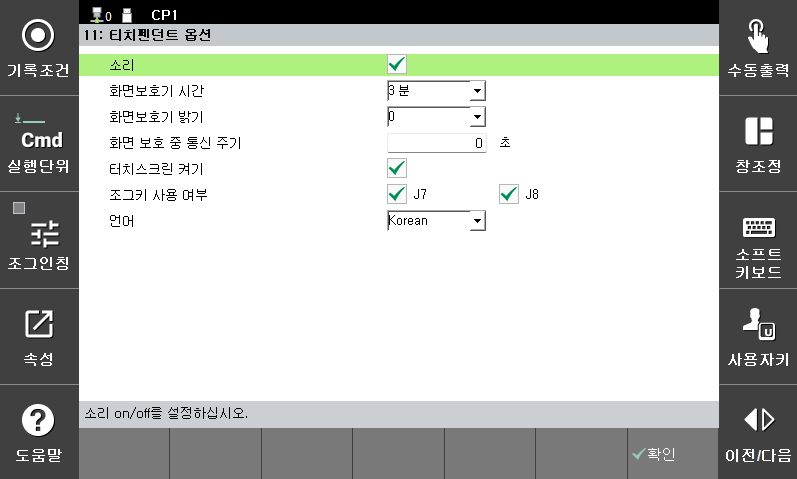
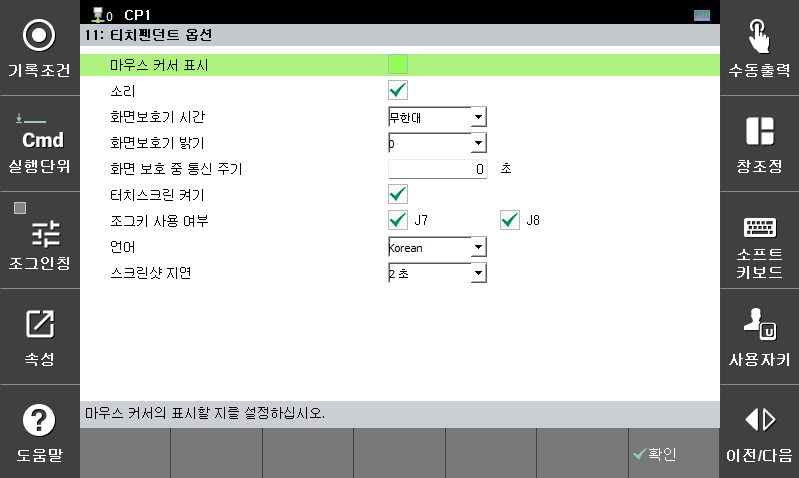
[HIXM-5650] 스크린샷 동작 지연 기능 개발

diff --git a/book.md b/book.md
@@ -3290,6 +3290,14 @@ V60.26-00 부터 지원됩니다.
   <tbody>
     <tr>
       <td style="text-align:left">
+        마우스 커서 표시
+      </td>
+      <td style="text-align:left">티치펜던트 화면에 마우스 커서 표시를 ON/OFF 합니다.<br>
+      (V70.04-00 버전부터 지원됩니다.)
+      </td>
+    </tr>
+    <tr>
+      <td style="text-align:left">
         소리
       </td>
       <td style="text-align:left">티치펜던트의 비프(beep) 음을 ON/OFF 합니다.</td>
@@ -3334,6 +3342,13 @@ V60.26-00 부터 지원됩니다.
       </td>
       <td style="text-align:left">티치펜던트의 표시 언어를 변경합니다. 최상위 화면으로 나간 후 부터 적용됩니다.<br>
       (V70.00-00 버전부터 지원됩니다.<sup>3)</sup>) </td>
+    </tr>
+    <tr>
+      <td style="text-align:left">
+        스크린샷 지연
+      </td>
+      <td style="text-align:left">[CTRL]+[SHIFT]+[.]키에 의해 티치펜던트 화면을 캡쳐할 수 있습니다. <br>이때 캡쳐 동작에 대한 지연 시간을 설정합니다.<br>참고로 캡쳐된 화면은 파일관리자에서 TP/log 폴더에 screen_?.png 파일로 저장됩니다.<br>
+      (V70.02-00 버전부터 지원됩니다.)</td>
     </tr>
   </tbody>
 </table>

diff --git a/4-service/7-tp-option.md b/4-service/7-tp-option.md
@@ -14,6 +14,14 @@
   <tbody>
     <tr>
       <td style="text-align:left">
+        마우스 커서 표시
+      </td>
+      <td style="text-align:left">티치펜던트 화면에 마우스 커서 표시를 ON/OFF 합니다.<br>
+      (V70.04-00 버전부터 지원됩니다.)
+      </td>
+    </tr>
+    <tr>
+      <td style="text-align:left">
         소리
       </td>
       <td style="text-align:left">티치펜던트의 비프(beep) 음을 ON/OFF 합니다.</td>
@@ -58,6 +66,13 @@
       </td>
       <td style="text-align:left">티치펜던트의 표시 언어를 변경합니다. 최상위 화면으로 나간 후 부터 적용됩니다.<br>
       (V70.00-00 버전부터 지원됩니다.<sup>3)</sup>) </td>
+    </tr>
+    <tr>
+      <td style="text-align:left">
+        스크린샷 지연
+      </td>
+      <td style="text-align:left">[CTRL]+[SHIFT]+[.]키에 의해 티치펜던트 화면을 캡쳐할 수 있습니다. <br>이때 캡쳐 동작에 대한 지연 시간을 설정합니다.<br>참고로 캡쳐된 화면은 파일관리자에서 TP/log 폴더에 screen_?.png 파일로 저장됩니다.<br>
+      (V70.02-00 버전부터 지원됩니다.)</td>
     </tr>
   </tbody>
 </table>
